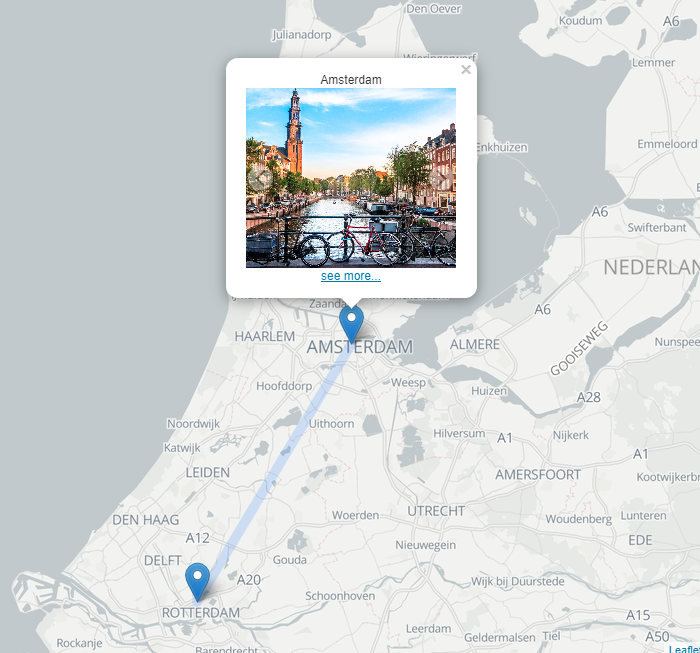
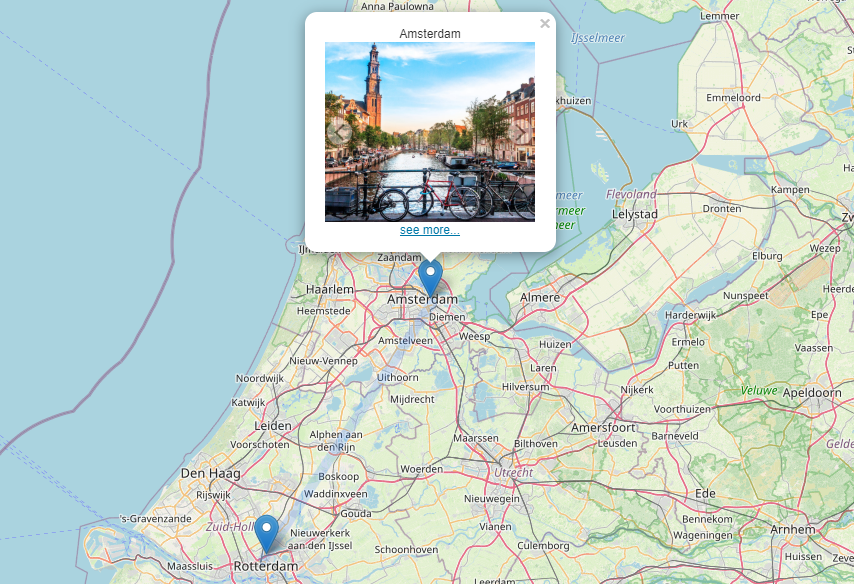
fixed tileLayer

diff --git a/src/components/map/leaflet-map/leaflet-map.tsx b/src/components/map/leaflet-map/leaflet-map.tsx
@@ -40,6 +40,7 @@ import {
 import { MapStyle, getMapStyle } from './leaflet-map.themes';
 import { getPlacesFromFeatures } from '../map.util';
 import { setPlaces } from '../../../redux/root.actions';
+import { TileLayer } from 'react-leaflet';
 
 /**
  *
@@ -262,7 +263,11 @@ const LeafletMap: React.FC<Props> = ({
 	return (
 		<Wrapper>
 			<Map center={mapConfig.center} zoom={mapConfig.zoom}>
-				{getMapStyle(mapStyle)}
+				{/* {getMapStyle(mapStyle)} */}
+				<TileLayer
+					attribution='&amp;copy <a href="http://osm.org/copyright">OpenStreetMap</a> contributors'
+					url='https://{s}.tile.openstreetmap.org/{z}/{x}/{y}.png'
+				/>
 
 				<FeatureGroup key={Date.now()} ref={onFeatureGroupReady}>
 					{!withTargetUser && (
